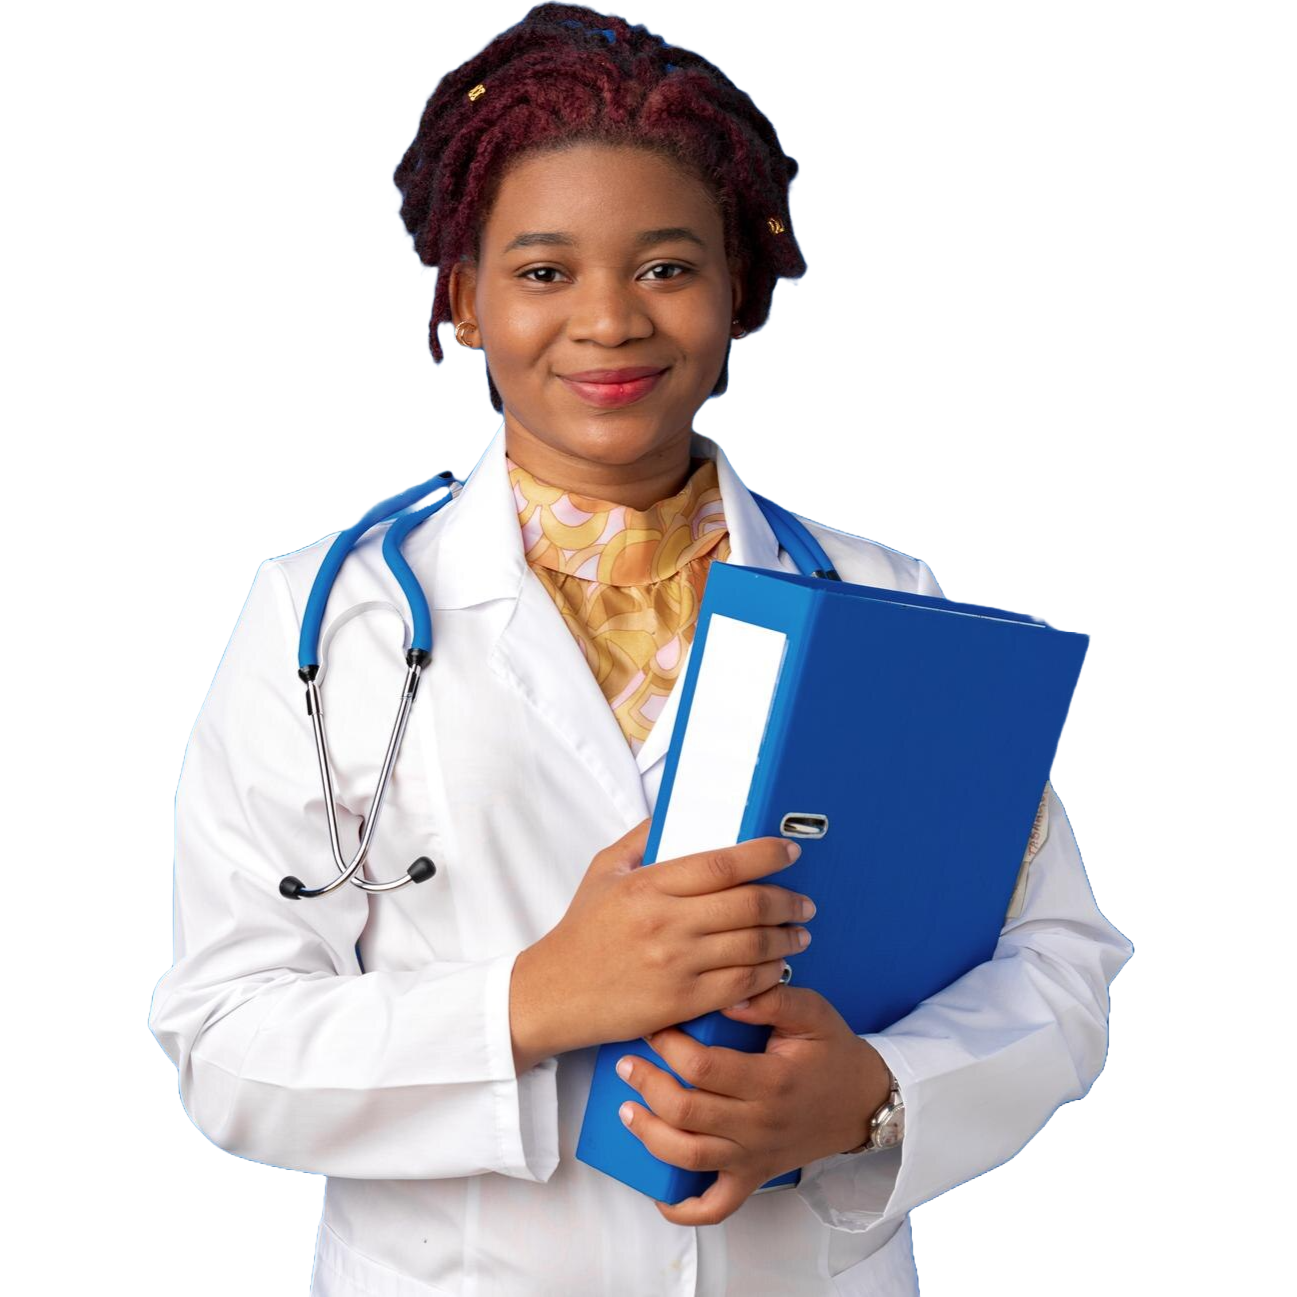
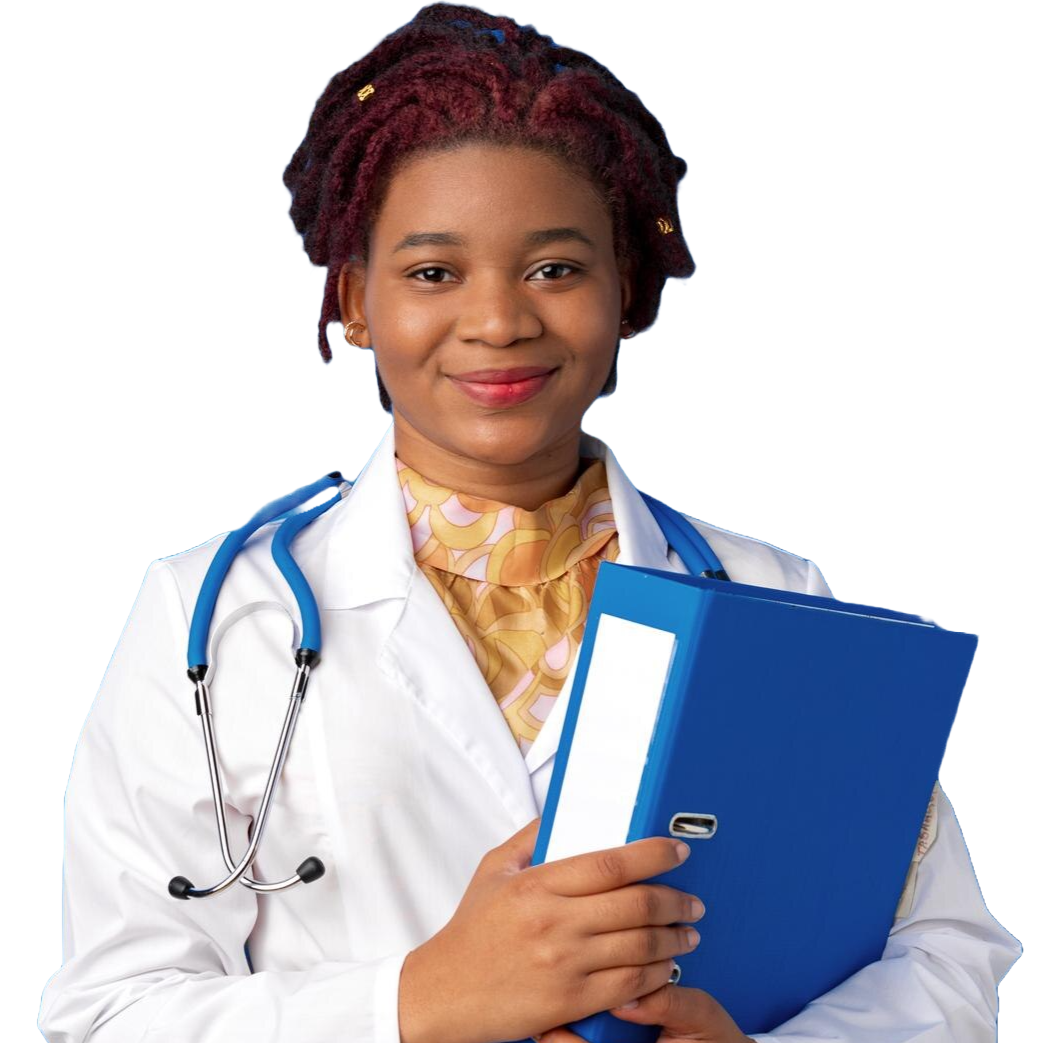
hero section carousel Improvements

diff --git a/apps/web/src/components/hero-section.tsx b/apps/web/src/components/hero-section.tsx
@@ -23,9 +23,9 @@ const carouselItems: CarouselItem[] = [
     ],
     description: "We take the guesswork out of finding the right doctors, hospitals, and care for your family.",
     image: "/assets/hero.webp",
-    bgColor: "bg-blue-50",
+    bgColor: "bg-white-50",
     textColor: "text-[#553DA6]",
-    accentColor: "text-blue-600"
+    accentColor: "text-[#65BA00]"
   },
   {
     id: 2,
@@ -36,9 +36,9 @@ const carouselItems: CarouselItem[] = [
     ],
     description: "Our advanced matching system connects you with the perfect healthcare providers.",
     image: "/assets/hero2.png",
-    bgColor: "bg-purple-50",
+    bgColor: "bg-white-50",
     textColor: "text-[#553DA6]",
-    accentColor: "text-teal-600"
+    accentColor: "text-[#65BA00]"
   },
   {
     id: 3,
@@ -48,10 +48,10 @@ const carouselItems: CarouselItem[] = [
       "advice and support"
     ],
     description: "Connect with healthcare professionals anytime, anywhere through our platform.",
-    image: "/assets/hero3.webp",
-    bgColor: "bg-cyan-50",
+    image: "/assets/hero4.png",
+    bgColor: "bg-white-50",
     textColor: "text-[#553DA6]",
-    accentColor: "text-cyan-600"
+    accentColor: "text-[#65BA00]"
   }
 ]
 
@@ -76,13 +76,13 @@ export default function HeroSection() {
   }
 
   return (
-    <section className={`mt-4 flex w-full px-8 sm:h-96 sm:flex-row sm:justify-between lg:mt-0 lg:h-[416px] lg:gap-16 lg:px-56 xl:mt-0 xl:h-[496px] transition-all duration-1000 ${currentItem.bgColor}`}>
+    <section className={`mt-4 flex w-full px-8 sm:h-96 sm:flex-row sm:justify-between lg:mt-0 lg:h-[496px] lg:gap-16 lg:px-16 xl:px-56 xl:mt-0 xl:h-[496px] transition-all duration-1000 ${currentItem.bgColor}`}>
       <div className="flex flex-grow flex-col items-center justify-center text-center gap-4 lg:items-start lg:text-left">
-        <h1 className={`text-2xl font-extrabold leading-tight transition-all duration-300 sm:text-3xl md:text-4xl xl:text-5xl ${currentItem.textColor}`}>
+        <h1 className={`text-2xl font-extrabold leading-tight transition-all duration-300 sm:text-3xl md:text-4xl lg:text-3xl xl:text-4xl lg:w-full  ${currentItem.textColor}`}>
           {currentItem.titleLines.map((line, index) => (
-            <div key={index} className="whitespace-nowrap">
+            <div key={index} className="whitespace-wrap">
               {line.includes("Good Health") || line.includes("Long Life") || line.includes("unique needs") || line.includes("advice and support") ? (
-                <span className={`underline decoration-wavy decoration-2 underline-offset-4 ${currentItem.accentColor}`}>
+                <span className={`${currentItem.accentColor}`}>
                   {line}
                 </span>
               ) : (
@@ -114,7 +114,7 @@ export default function HeroSection() {
         width={488}
         height={488}
         priority
-        className="hidden lg:block w-[408px] h-[408px] xl:w-[488px] xl:h-[488px] transition-all duration-1000"
+        className="hidden lg:block w-[408px] h-[408px] xl:w-[488px] xl:h-[488px] object-cover transition-all duration-1000"
       />
     </section>
   )
